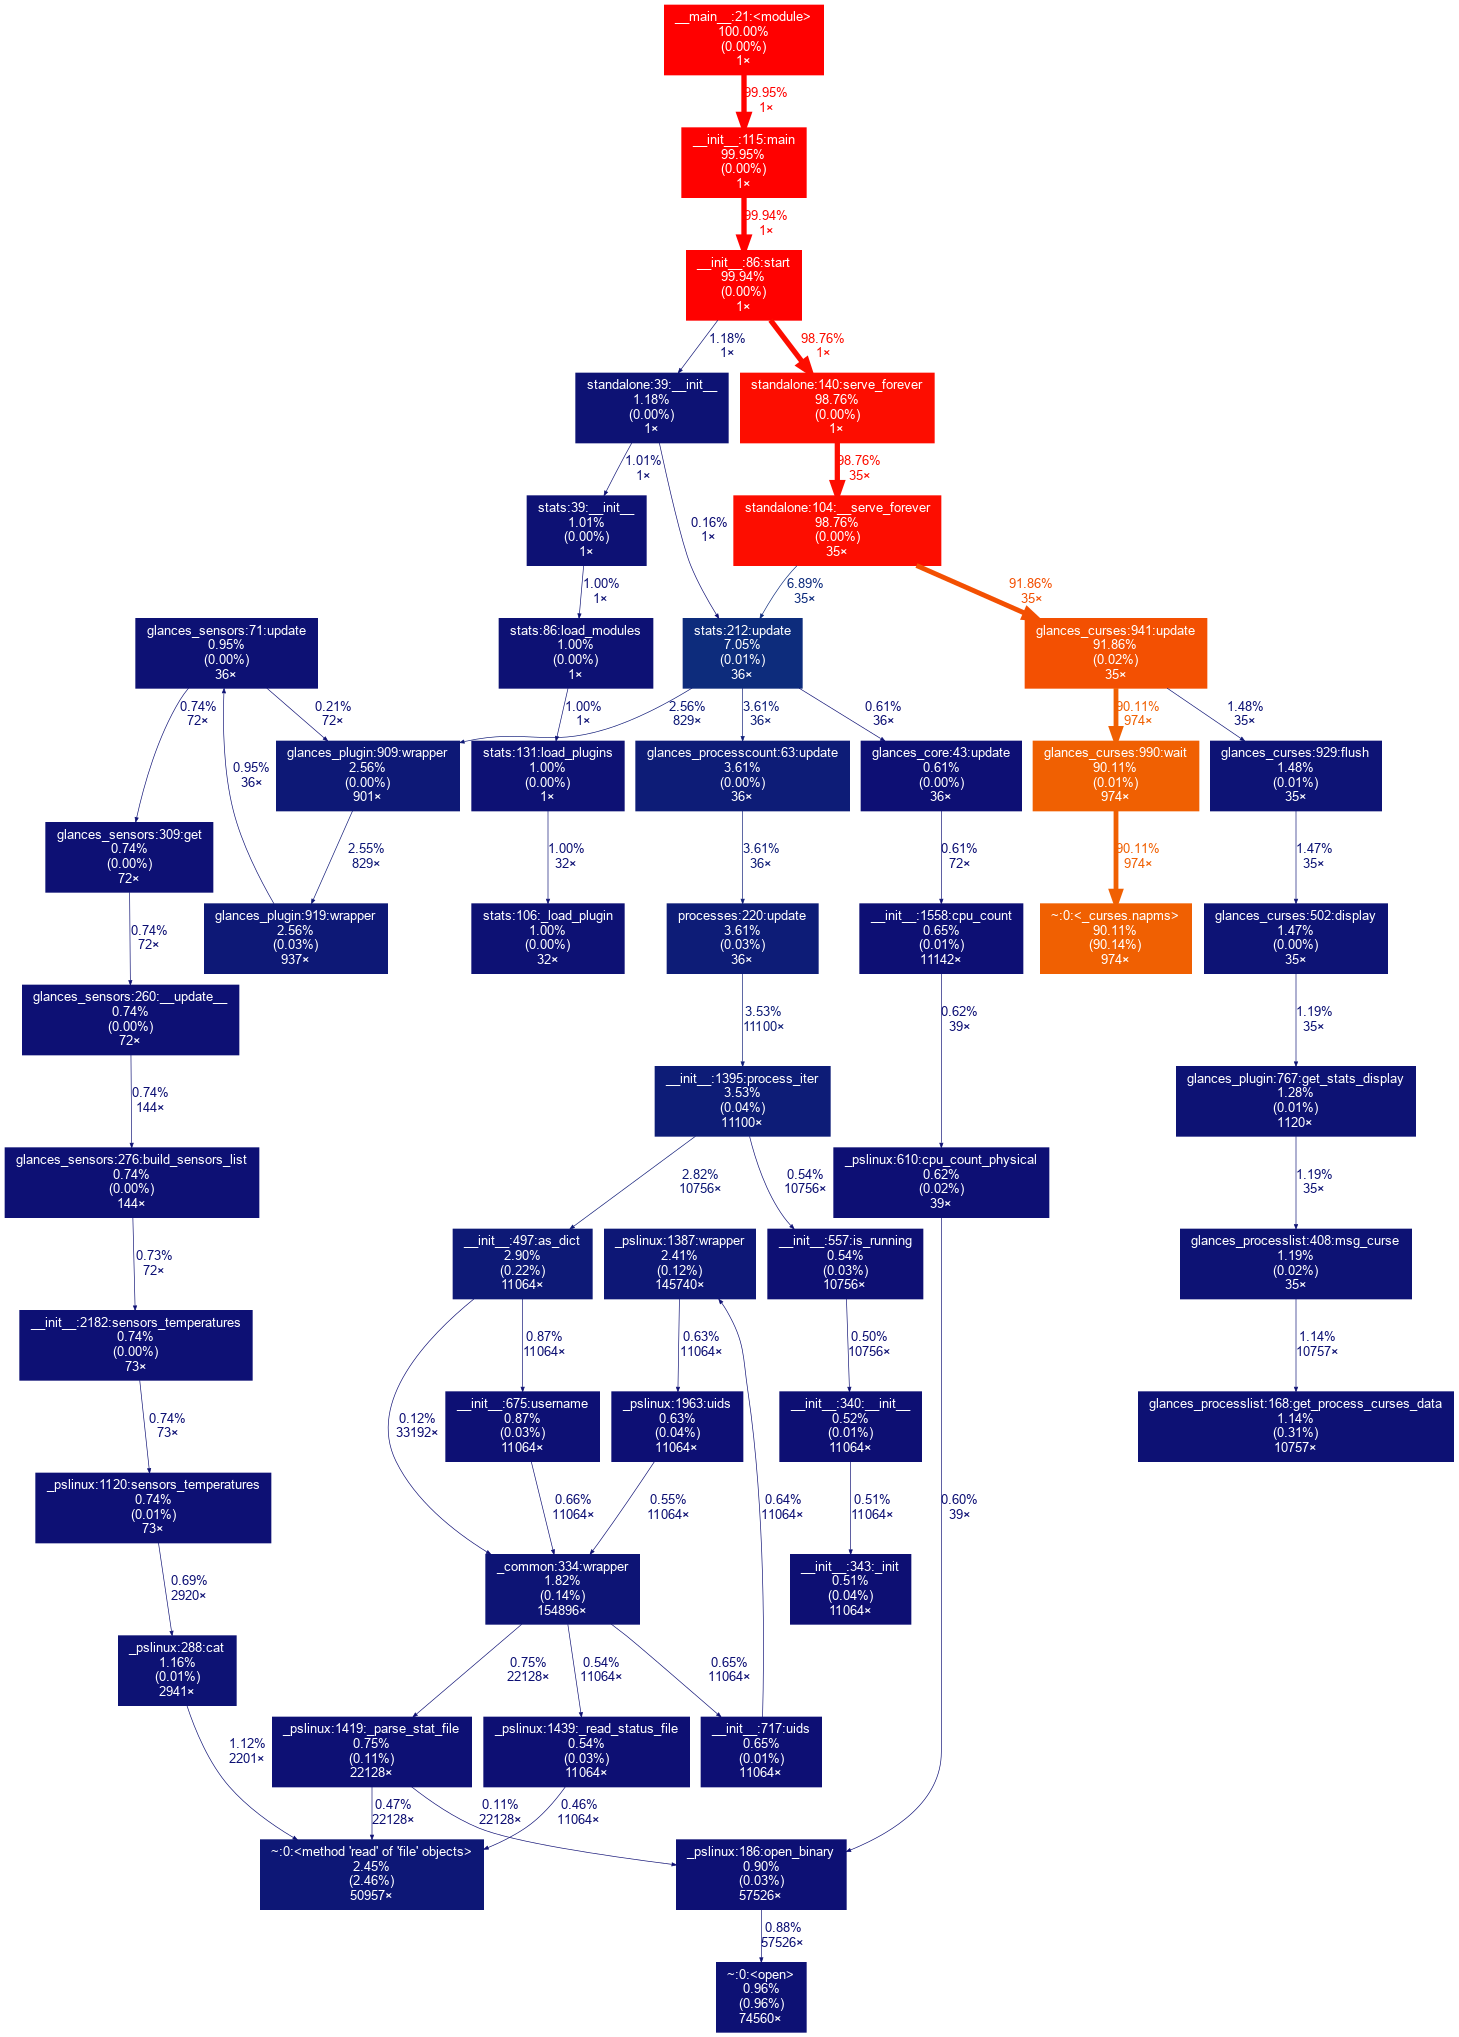
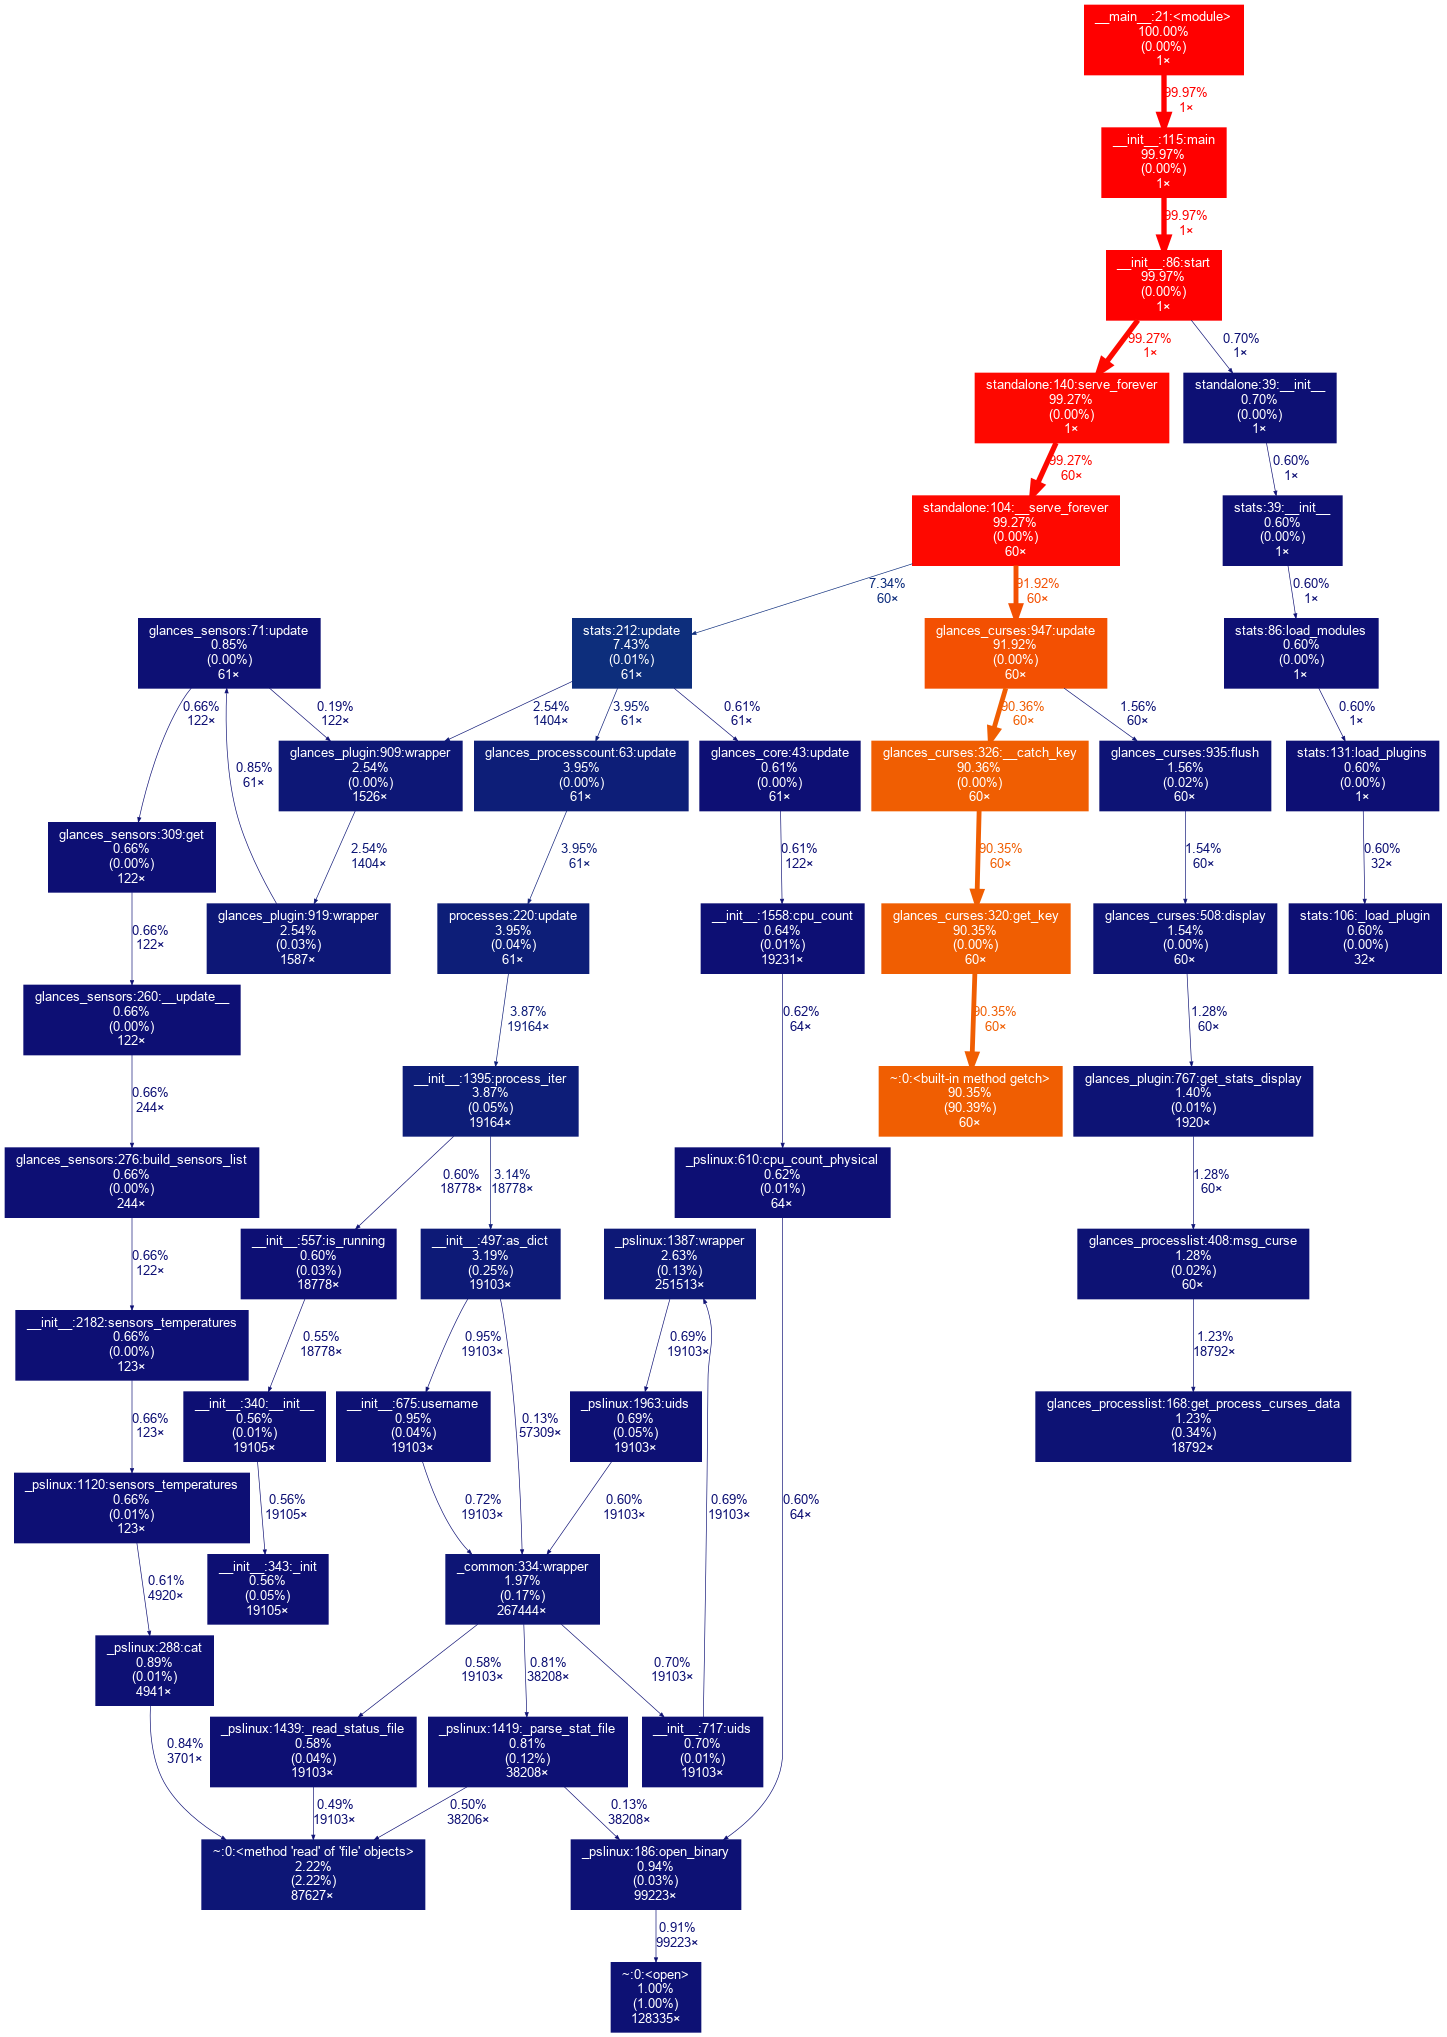
Replace the wait method by a default timeout on getch

diff --git a/glances/outputs/glances_curses.py b/glances/outputs/glances_curses.py
@@ -302,20 +302,26 @@ class _GlancesCurses(object):
             except Exception:
                 pass
 
+    # def get_key(self, window):
+    #     # Catch ESC key AND numlock key (issue #163)
+    #     keycode = [0, 0]
+    #     keycode[0] = window.getch()
+    #     keycode[1] = window.getch()
+    #
+    #     if keycode != [-1, -1]:
+    #         logger.debug("Keypressed (code: %s)" % keycode)
+    #
+    #     if keycode[0] == 27 and keycode[1] != -1:
+    #         # Do not escape on specials keys
+    #         return -1
+    #     else:
+    #         return keycode[0]
+
     def get_key(self, window):
-        # Catch ESC key AND numlock key (issue #163)
-        keycode = [0, 0]
-        keycode[0] = window.getch()
-        keycode[1] = window.getch()
-
-        if keycode != [-1, -1]:
-            logger.debug("Keypressed (code: %s)" % keycode)
-
-        if keycode[0] == 27 and keycode[1] != -1:
-            # Do not escape on specials keys
-            return -1
-        else:
-            return keycode[0]
+        # @TODO: Check issue #163
+        ret = window.getch()
+        logger.debug("Keypressed (code: %s)" % ret)
+        return ret
 
     def __catch_key(self, return_to_browser=False):
         # Catch the pressed key
@@ -945,8 +951,6 @@ class _GlancesCurses(object):
                return_to_browser=False):
         """Update the screen.
 
-        Catch key every 100 ms.
-
         INPUT
         stats: Stats database to display
         duration: duration of the loop
@@ -958,7 +962,7 @@ class _GlancesCurses(object):
             True: Do not exist, return to the browser list
             False: Exit and return to the shell
 
-        OUPUT
+        OUTPUT
         True: Exit key has been pressed
         False: Others cases...
         """
@@ -968,12 +972,14 @@ class _GlancesCurses(object):
         # If the duration is < 0 (update + export time > refresh_time)
         # Then display the interface and log a message
         if duration <= 0:
-            logger.debug('Update and export time higher than refresh_time.')
+            logger.warning('Update and export time higher than refresh_time.')
             duration = 0.1
 
-        # Wait
+        # Wait duration (in s) time
         exitkey = False
         countdown = Timer(duration)
+        # Set the default timeout (in ms) for the getch method
+        self.term_window.timeout(int(duration * 1000))
         while not countdown.finished() and not exitkey:
             # Getkey
             pressedkey = self.__catch_key(return_to_browser=return_to_browser)
@@ -982,8 +988,6 @@ class _GlancesCurses(object):
             if not exitkey and pressedkey > -1:
                 # Redraw display
                 self.flush(stats, cs_status=cs_status)
-            # Wait 100ms...
-            self.wait()
 
         return exitkey
 
